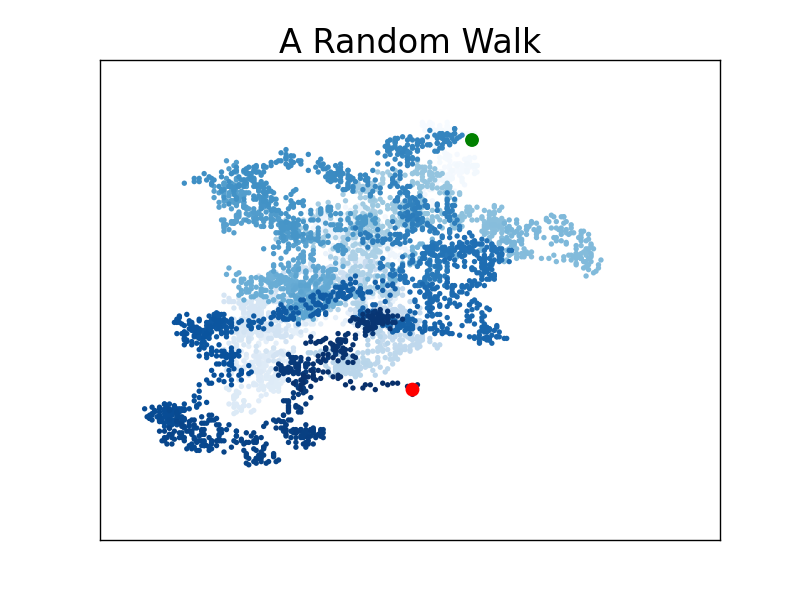
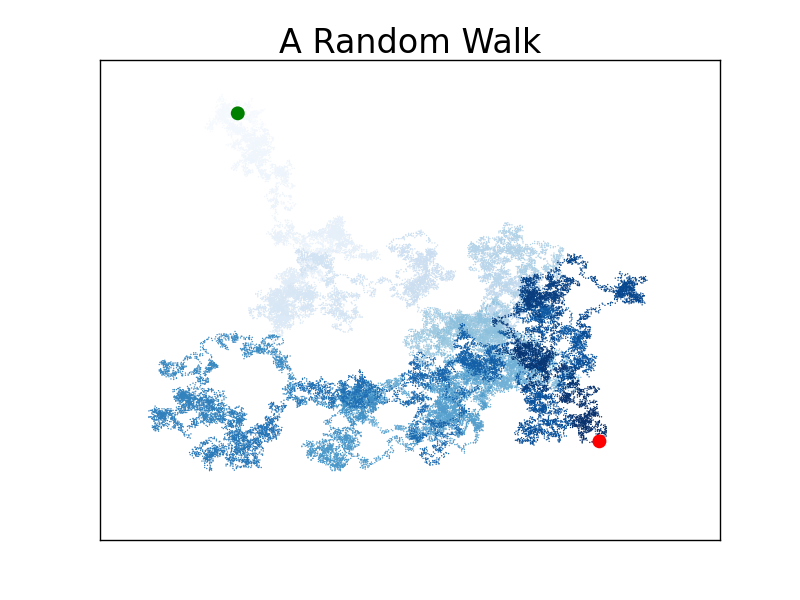
Data Visualization

Changed region(s): [[0.1875, 0.21, 0.8125, 0.78], [0.2812, 0.18, 0.3125, 0.21]]

diff --git a/randomWalk_visual.py b/randomWalk_visual.py
@@ -3,13 +3,13 @@ from random_walk import RandomWalk
 
 #keep making new walks as long as the program is active
 while True:
-    rw = RandomWalk()
+    rw = RandomWalk(50_000)
     rw.fill_walk()
 
     plt.style.use("classic")
     fig, ax = plt.subplots()
     point_numbers = range(rw.num_points)
-    ax.scatter(rw.x_values, rw.y_values, c = point_numbers, cmap = plt.cm.Blues, edgecolors = "none", s = 15)
+    ax.scatter(rw.x_values, rw.y_values, c = point_numbers, cmap = plt.cm.Blues, edgecolors = "none", s = 1)
     #Emphasis the first and last point
     ax.scatter(0, 0, c = "green", edgecolors = "none", s = 100)
     ax.scatter(rw.x_values[-1], rw.y_values[-1], c= "red", edgecolors = "none", s = 100)

diff --git a/random_walk.py b/random_walk.py
@@ -3,7 +3,7 @@ from random import choice
 class RandomWalk():
     """A class to generate random walk"""
     
-    def __init__(self, num_points = 5000):
+    def __init__(self, num_points):
         """Initialize attributes of a walk."""
         self.num_points = num_points
         self.x_values = [0]
